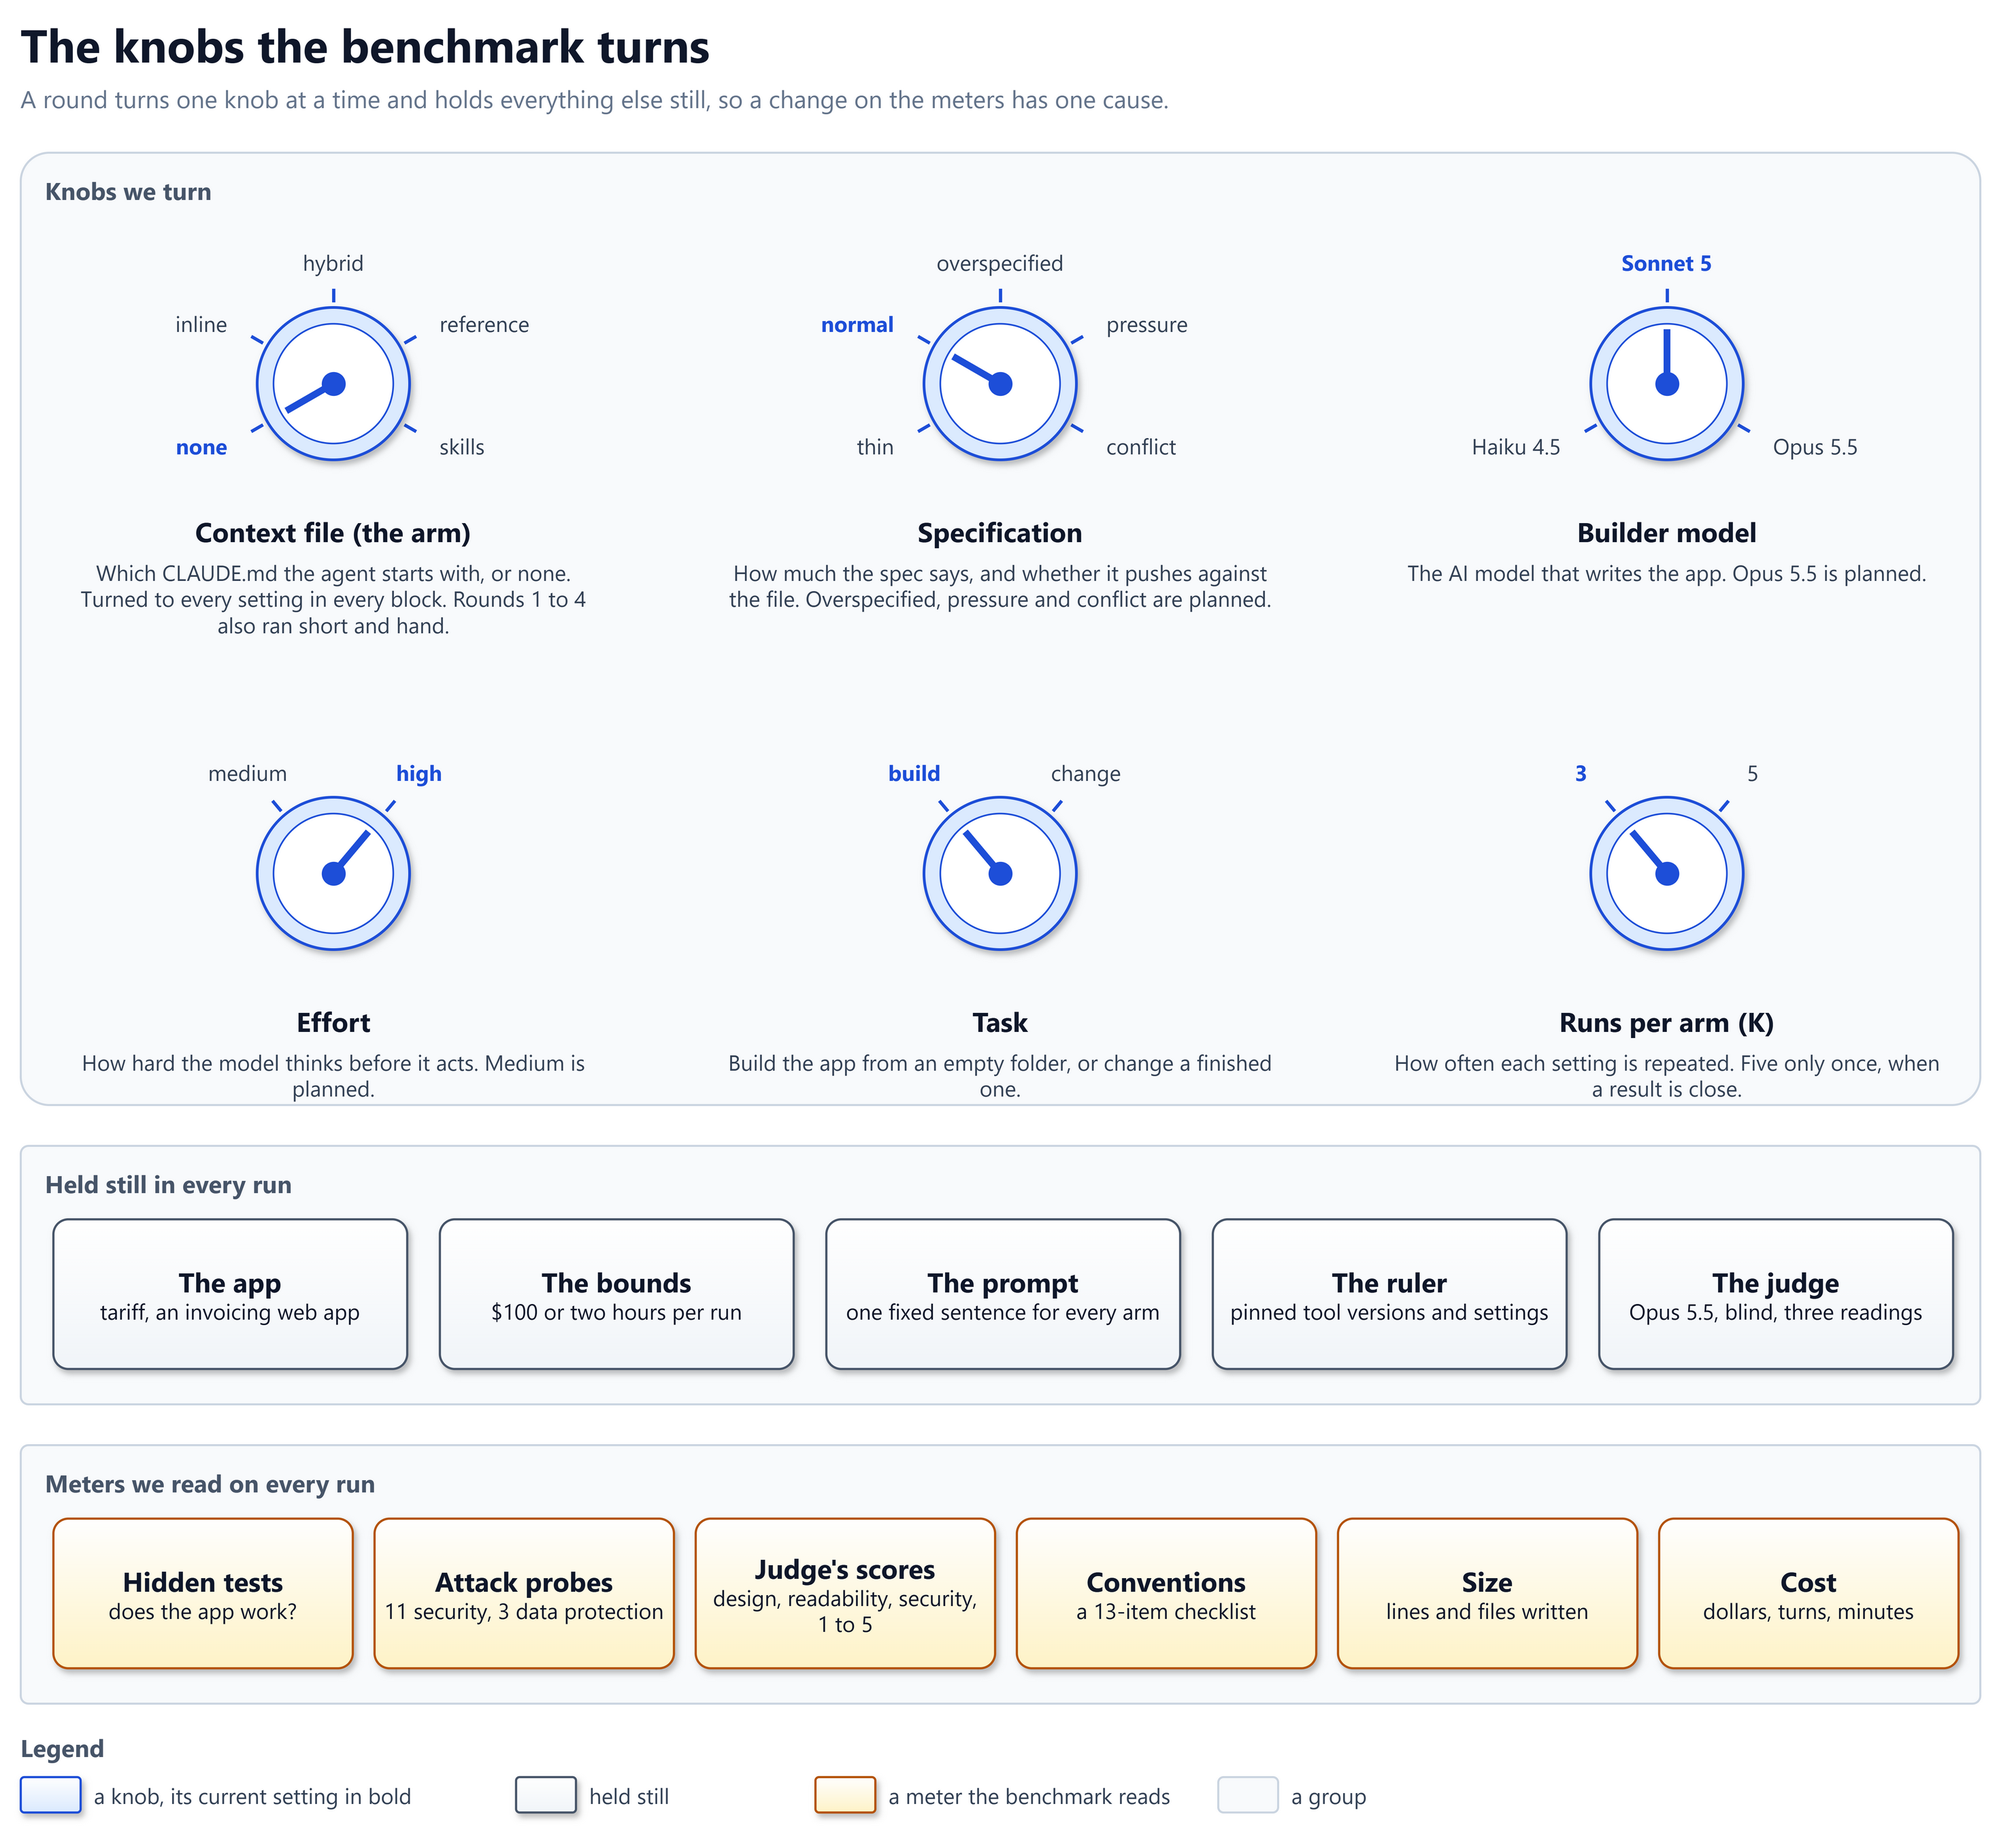
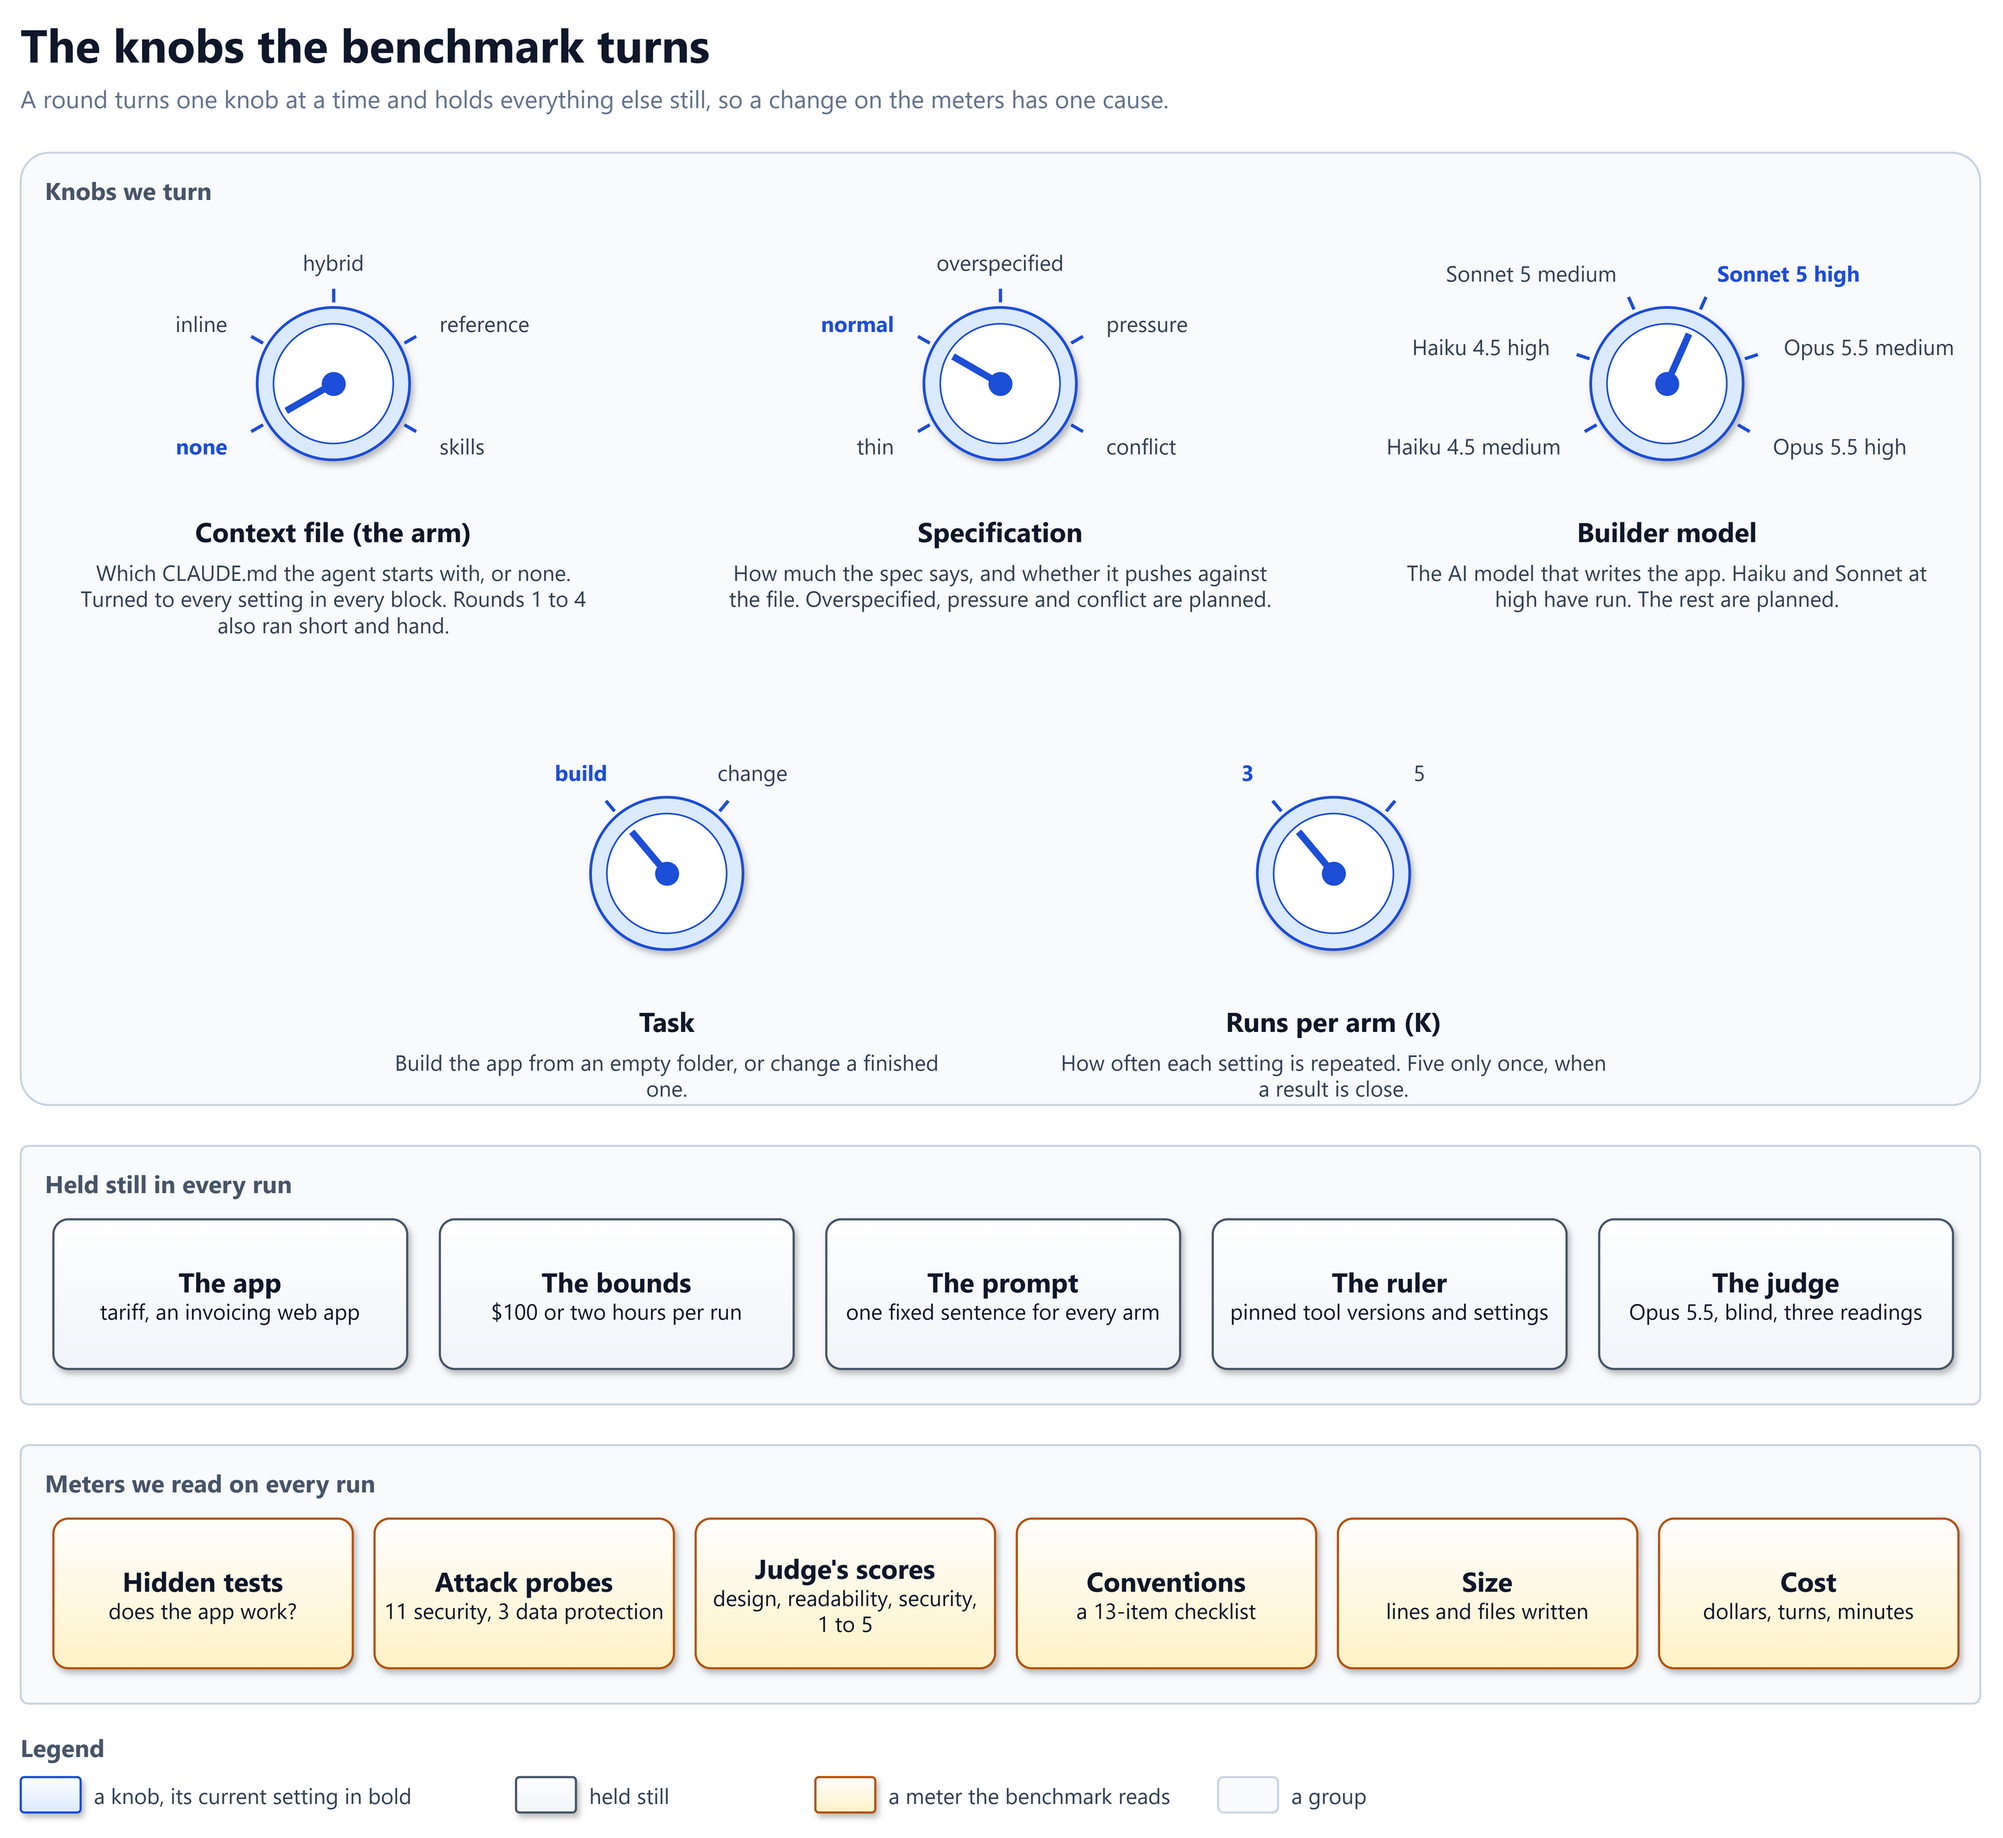
docs(primer): fold the effort levels into the model knob
The model knob lists each model at medium and high, and the separate
effort knob is gone.

Claude-Session: https://claude.ai/code/session_01HVh8GVGd72WUJ3BvM7TXQn

diff --git a/docs/primer.md b/docs/primer.md
@@ -46,14 +46,13 @@ one sitting and strict enough that a wrong cent shows.
 A round turns one knob at a time and holds everything else still. Then any
 change on the meters has one cause.
 
-![Six knobs the benchmark turns, each with its settings: the context file (none, inline, hybrid, reference, skills, with none selected), the specification (thin, normal, overspecified, pressure, conflict, with normal selected), the builder model (Haiku 4.5, Sonnet 5, Opus 5.5, with Sonnet 5 selected), the effort (medium or high, with high selected), the task (build or change) and the runs per arm (3 or 5). Below them, what is held still in every run: the app, the bounds of $100 or two hours, the prompt, the ruler and the judge. Below that, the meters read on every run: hidden tests, attack probes, the judge's scores, conventions, size and cost](diagrams/knobs.png)
+![Five knobs the benchmark turns, each with its settings: the context file (none, inline, hybrid, reference, skills, with none selected), the specification (thin, normal, overspecified, pressure, conflict, with normal selected), the builder model (Haiku 4.5, Sonnet 5 and Opus 5.5, each at medium or high, with Sonnet 5 high selected), the task (build or change) and the runs per arm (3 or 5). Below them, what is held still in every run: the app, the bounds of $100 or two hours, the prompt, the ruler and the judge. Below that, the meters read on every run: hidden tests, attack probes, the judge's scores, conventions, size and cost](diagrams/knobs.png)
 
 | Knob | Settings | What turning it asks | Turned in |
 | ---- | -------- | -------------------- | --------- |
 | Context file, the **arm** | `none`, `inline`, `hybrid`, `reference`, `skills` | Does a file help, and which way of delivering the rules | Every round |
 | Specification | normal, thin, overspecified, pressure, conflict | Does a file supply what a sparse spec leaves out, and hold or yield when the spec pushes against it | Thin in round 4. The rest planned, #23 |
-| Builder model | Sonnet 5, Haiku 4.5, Opus 5.5 | Does a file help a weaker model more, and a stronger one less | Haiku in round 4. Opus planned, #23 |
-| Effort | high, medium | Does a file make up for a model thinking less | High so far. Medium planned, #23 |
+| Builder model | Haiku 4.5, Sonnet 5, Opus 5.5, each at medium or high | Does a file help a weaker model more, and a stronger one less | Haiku and Sonnet at high so far. The rest planned, #23 |
 | Task | build, change | Does the design take a change it was not built for | Most rounds. Round 4's thin run only built |
 | Runs per arm, K | 3, at most 5 | How steady a result is | 5 only once, when owed |
 
